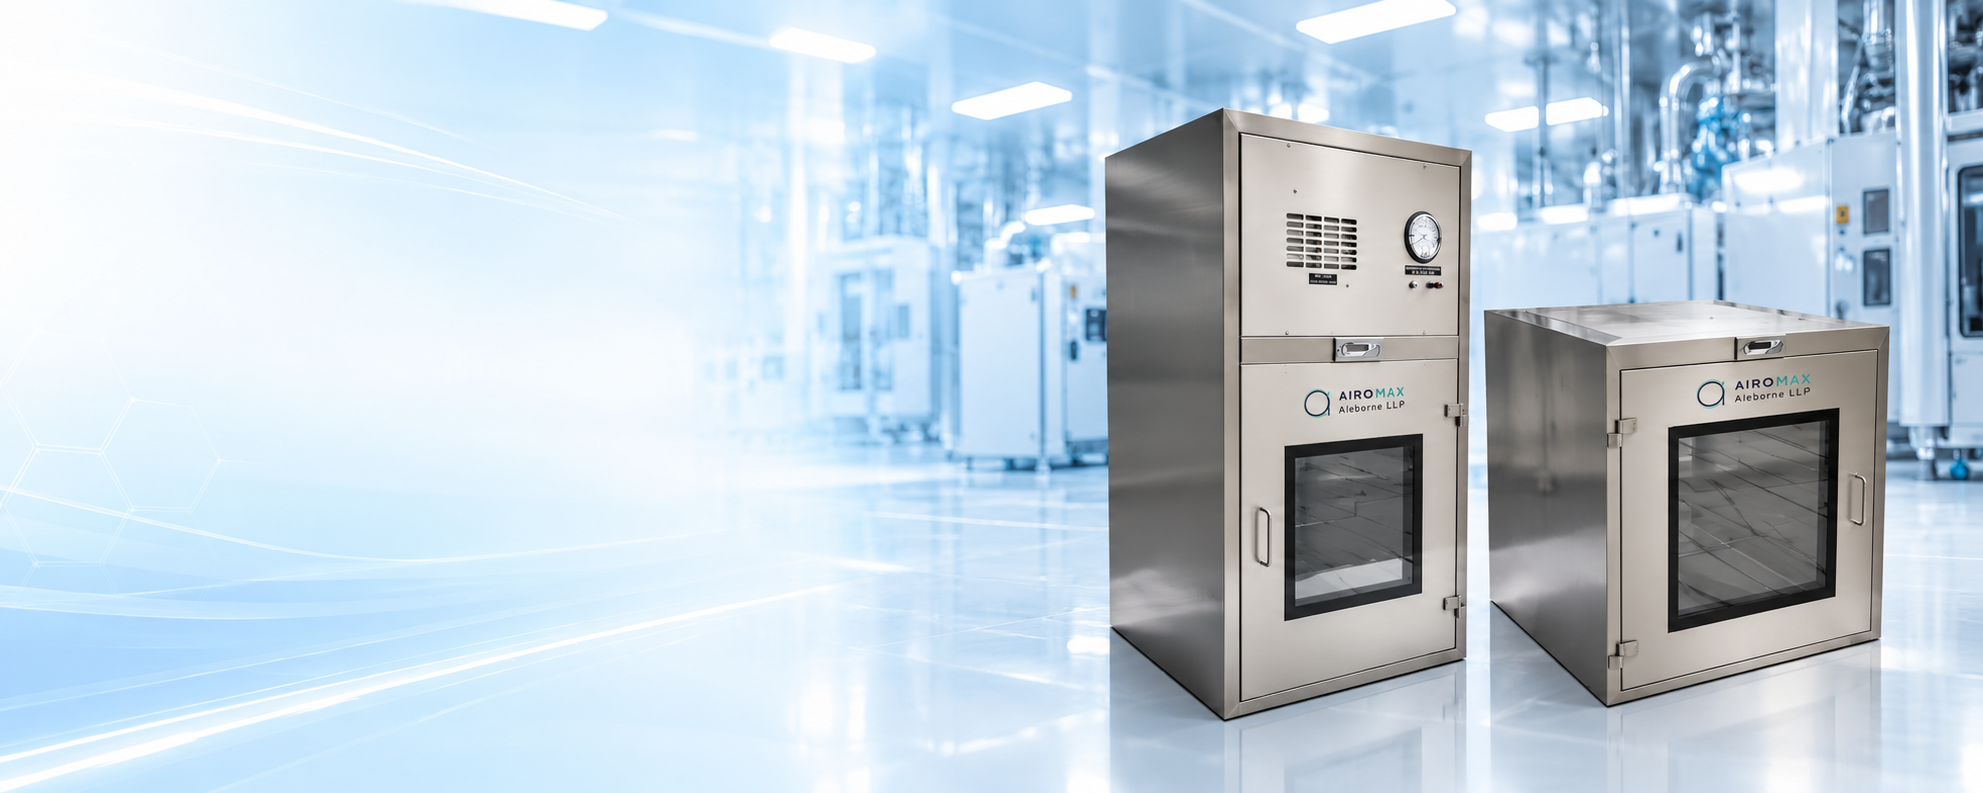
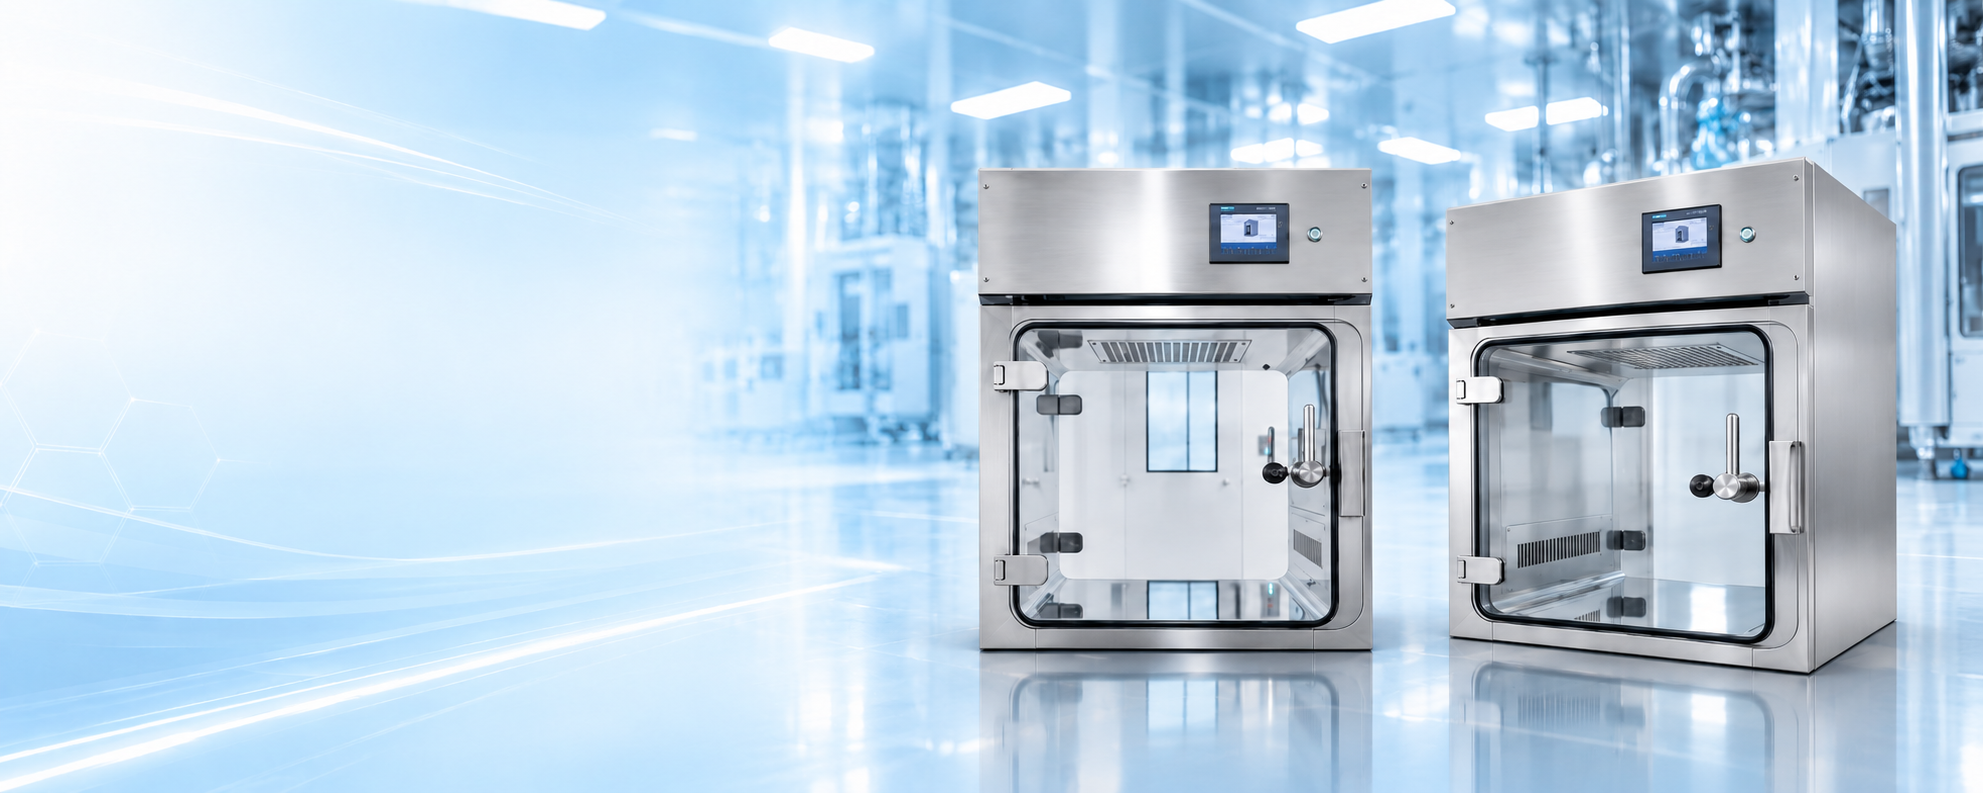
feat(cleangrad): update Cleangrad product page hero section with caaaaaaaa.png

diff --git a/src/data/brandsData.ts b/src/data/brandsData.ts
@@ -48,7 +48,7 @@ export const BRAND_HERO_MAP: Record<string, string> = {
   'emerson': '/product_images/emerson/image.png',
   'automation-software': '/product_hero_card/SCADA.png',
   'honeywell': '/product_hero_card/Honeywell.png',
-  'cleangrad': '/product_hero_card/Cleangrad.png',
+  'cleangrad': '/caaaaaaaa.png',
   'emi-solutions': '/home/hero_EMI_.png',
   'emis': '/home/hero_EMI_.png',
 };
@@ -1064,7 +1064,7 @@ export const BRANDS_DATA: BrandData[] = [
   },
   {
     id: "cleangrad",
-    heroImage: "/product_hero_card/Cleangrad.png",
+    heroImage: "/caaaaaaaa.png",
     name: "Clean Grad Slovenia",
     fullName: "Cleangrad d.o.o. (Slovenia)",
     tagline: "GMP Cleanroom Partition Walls, Ceilings & Dynamic/Static Pass Boxes",
